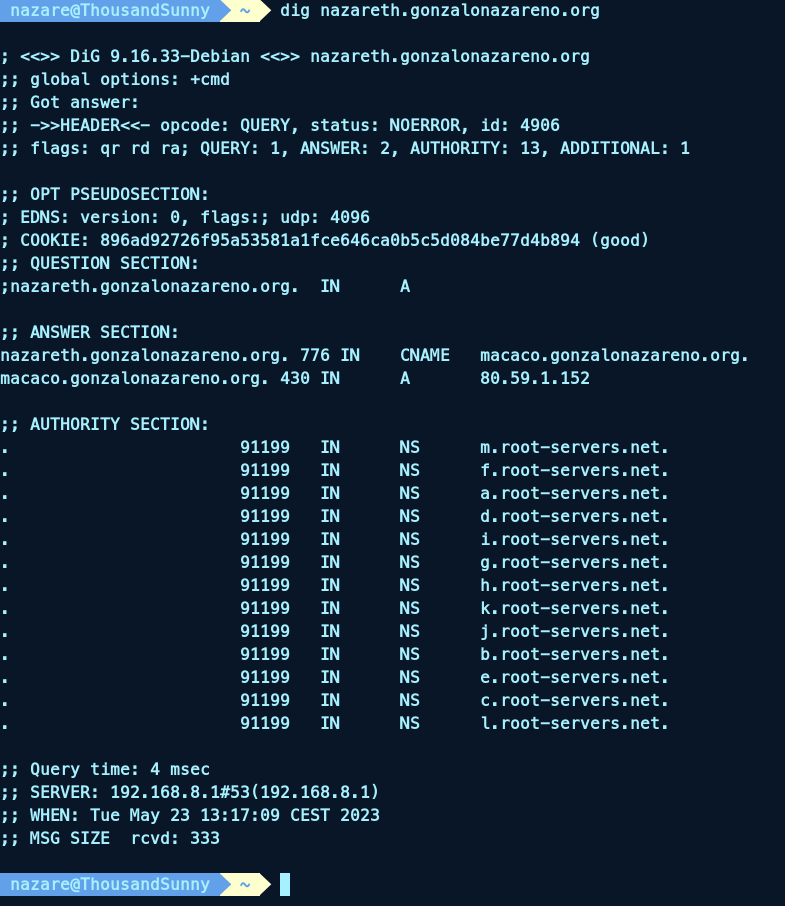
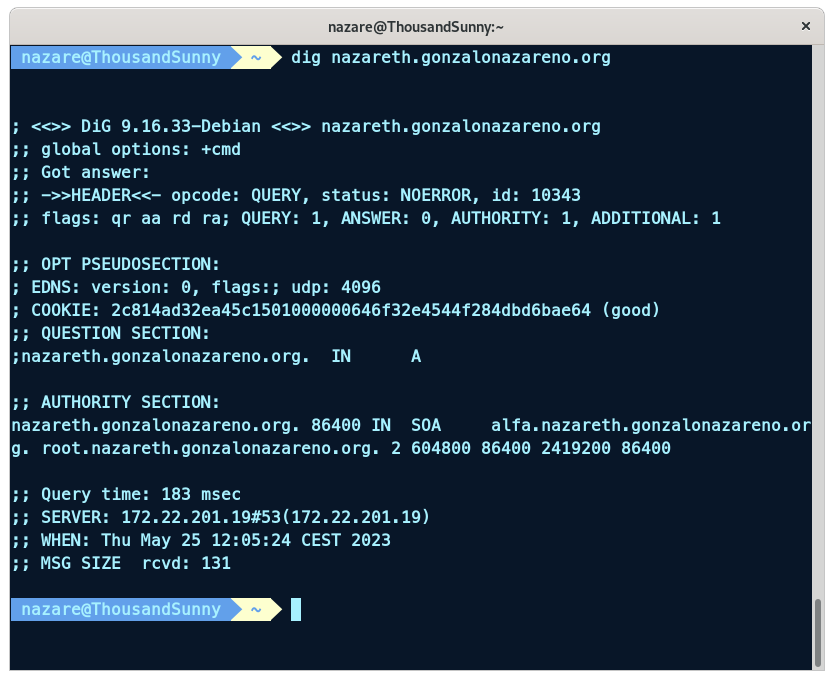
dns

diff --git a/docs/Tasks/dns_escenario_openstack.md b/docs/Tasks/dns_escenario_openstack.md
@@ -606,33 +606,70 @@ dig nazareth.gonzalonazareno.org
 
 ![dns](/img/SRI+HLC/DNSSRI5-15.png)
 
+
+
 * La dirección IP de alfa.
 
-<!-- ![dns](/img/SRI+HLC/DNSSRI5-16.png)
-![dns](/img/SRI+HLC/DNSSRI5-17.png) -->
+```bash
+dig alfa.nazareth.gonzalonazareno.org
+```
+
+- Desde una máquina interna:
+
+![dns](/img/SRI+HLC/DNSSRI5-16.png)
+
+- Desde una máquina externa:
+
+![dns](/img/SRI+HLC/DNSSRI5-17.png)
+
+
 
 * Una resolución de www.
 
-<!-- ![dns](/img/SRI+HLC/DNSSRI5-18.png)
-![dns](/img/SRI+HLC/DNSSRI5-19.png) -->
+```bash
+dig www.nazareth.gonzalonazareno.org
+```
+
+- Desde una máquina interna:
+
+![dns](/img/SRI+HLC/DNSSRI5-18.png)
+
+- Desde una máquina externa:
+
+![dns](/img/SRI+HLC/DNSSRI5-19.png)
+
+
 
 * Una resolución de bd.
 
-<!-- ![dns](/img/SRI+HLC/DNSSRI5-20.png)
-![dns](/img/SRI+HLC/DNSSRI5-21.png) -->
+```bash
+dig bd.nazareth.gonzalonazareno.org
+```
+
+- Desde una máquina interna:
+
+![dns](/img/SRI+HLC/DNSSRI5-20.png)
+
+- Desde una máquina externa:
+
+![dns](/img/SRI+HLC/DNSSRI5-21.png)
+
+
 
 * Un resolución inversa de IP fija en cada una de las redes. (Esta consulta sólo funcionará desde una máquina interna).
 
-<!-- ![dns](/img/SRI+HLC/DNSSRI5-22.png)
-![dns](/img/SRI+HLC/DNSSRI5-23.png) -->
+![dns](/img/SRI+HLC/DNSSRI5-22.png)
+![dns](/img/SRI+HLC/DNSSRI5-23.png)
+
+
 
 ### 4. Entrega una captura de pantalla accediendo a www.tunombre.gonzalonazareno.org/info.php donde se vea la salida del fichero info.php.
 
-<!-- ![dns](/img/SRI+HLC/DNSSRI5-24.png) -->
+![dns](/img/SRI+HLC/DNSSRI5-24.png)
 
 ### 5. Entrega una prueba de funcionamiento donde se vea como se realiza una conexión a la base de datos desde bravo.
 
-
+![dns](/img/SRI+HLC/DNSSRI5-25.png)
 
 *Nota: Para las views y zones ext.,int. y dmz → https://www.josedomingo.org/pledin/2017/12/vistas-views-en-el-servidor-dns-bind9/ 
 
@@ -655,7 +692,7 @@ Y ejecutar:
 netplan -
 netplan apply
 ```
-Con netplan se puede configurar la red de forma dinámica, por lo que no es necesario reiniciar la máquina para que se apliquen los cambios. Dentro del fichero se puede configurar la IP estática, el DNS, la puerta de enlace, etc. En este caaso se ha añadido el nameserver con la IP del servidor DNS 192.168.0.2.
+Con netplan se puede configurar la red de forma dinámica, por lo que no es necesario reiniciar la máquina para que se apliquen los cambios. Dentro del fichero se puede configurar la IP estática, el DNS, la puerta de enlace, etc. En este caso se ha añadido el nameserver con la IP del servidor DNS 192.168.0.2.
 
 *Nota: no funciona bien charlie y da un error `May 19 23:56:08 charlie named[275]: network unreachable resolving './DNSKEY/IN': 2001:dc3::35#53` lo que hace que en alfa no se pueda establecer conexion con el servidor. El problema es una regla de iptables mal establecida que indica que todo el tráfico vaya a charlie, al llegar a charlie vuelve a preguntar a alfa y se crea un bucle. Para solucionarlo eliminamos esa regla.
 
